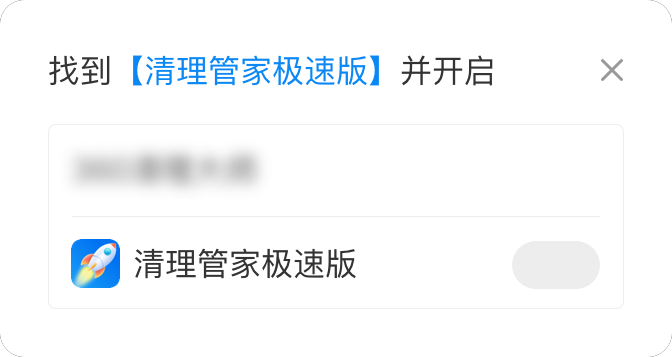
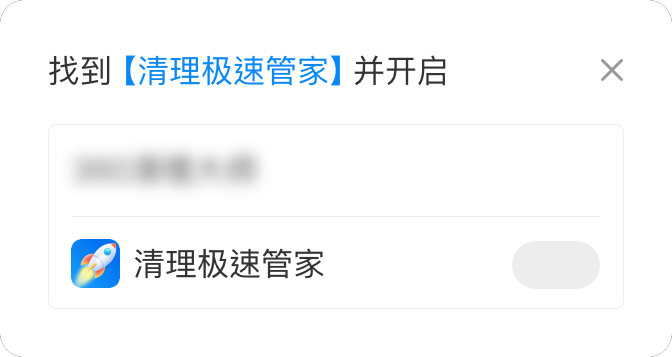
管家1.3.0修改名称打包

Changed region(s): [[0.1875, 0.1541, 0.75, 0.2465], [0.2812, 0.6779, 0.5312, 0.8011]]

diff --git a/app/src/main/java/com/xiaoniu/cleanking/ui/newclean/activity/CleanFinishAdvertisementActivity.java b/app/src/main/java/com/xiaoniu/cleanking/ui/newclean/activity/CleanFinishAdvertisementActivity.java
@@ -114,7 +114,7 @@ public class CleanFinishAdvertisementActivity extends BaseActivity<CleanFinishAd
             if (TextUtils.isEmpty(mTitle))
                 mTitle = getString(R.string.app_name);
             if (getString(R.string.app_name).contains(mTitle)) {
-                //清理管家极速版
+                //清理极速管家
                 if (TextUtils.isEmpty(num) || num.equals("0.0") || num.equals("0")) {
                     mTvSize.setText("");
                     mTvGb.setText("已达到最佳状态");
@@ -237,10 +237,10 @@ public class CleanFinishAdvertisementActivity extends BaseActivity<CleanFinishAd
     void getPageData() {
         sourcePage = AppHolder.getInstance().getCleanFinishSourcePageId();
         if (getString(R.string.app_name).contains(mTitle)) {
-            //清理管家极速版
+            //清理极速管家
             currentPage = "clean_success_page";
         } else if (getString(R.string.tool_one_key_speed).contains(mTitle)) {
-            //清理管家极速版
+            //清理极速管家
             currentPage = "boost_success_page";
         } else if (getString(R.string.tool_suggest_clean).contains(mTitle)) {
             //1.2.1清理完成页面_建议清理
@@ -321,7 +321,7 @@ public class CleanFinishAdvertisementActivity extends BaseActivity<CleanFinishAd
     public void pageStart() {
 
         if (getString(R.string.app_name).contains(mTitle)) {
-            //清理管家极速版
+            //清理极速管家
             NiuDataAPI.onPageStart("clean_success_page_view_page", "清理结果出现时");
         } else if (getString(R.string.tool_one_key_speed).contains(mTitle)) {
             //一键加速
@@ -359,7 +359,7 @@ public class CleanFinishAdvertisementActivity extends BaseActivity<CleanFinishAd
     //失去焦点
     public void onPageEnd() {
         if (getString(R.string.app_name).contains(mTitle)) {
-            //清理管家极速版
+            //清理极速管家
             NiuDataAPIUtil.onPageEnd(source_page, currentPage, "clean_success_page_view_page", "清理结果出现时");
         } else if (getString(R.string.tool_one_key_speed).contains(mTitle)) {
             //一键加速

diff --git a/app/src/main/java/com/xiaoniu/cleanking/ui/newclean/activity/NewCleanFinishActivity.java b/app/src/main/java/com/xiaoniu/cleanking/ui/newclean/activity/NewCleanFinishActivity.java
@@ -12,10 +12,6 @@ import android.widget.FrameLayout;
 import android.widget.ImageView;
 import android.widget.TextView;
 
-import androidx.core.content.ContextCompat;
-import androidx.recyclerview.widget.LinearLayoutManager;
-import androidx.recyclerview.widget.RecyclerView;
-
 import com.bumptech.glide.Glide;
 import com.bumptech.glide.util.Util;
 import com.comm.jksdk.GeekAdSdk;
@@ -69,6 +65,9 @@ import org.greenrobot.eventbus.Subscribe;
 import java.util.ArrayList;
 import java.util.Random;
 
+import androidx.core.content.ContextCompat;
+import androidx.recyclerview.widget.LinearLayoutManager;
+import androidx.recyclerview.widget.RecyclerView;
 import cn.jzvd.Jzvd;
 
 /**
@@ -1096,7 +1095,7 @@ public class NewCleanFinishActivity extends BaseActivity<CleanFinishPresenter> i
         }
         /*---------------------------------------- 埋点---------------------------------------------------------------------*/
         if (getString(R.string.app_name).contains(mTitle)) {
-            //清理管家极速版
+            //清理极速管家
             NiuDataAPI.onPageStart("clean_success_page_view_page", "清理结果出现时");
         } else if (getString(R.string.tool_one_key_speed).contains(mTitle)) {
             //一键加速
@@ -1140,7 +1139,7 @@ public class NewCleanFinishActivity extends BaseActivity<CleanFinishPresenter> i
     protected void onPause() {
         Jzvd.releaseAllVideos();
         if (getString(R.string.app_name).contains(mTitle)) {
-            //清理管家极速版
+            //清理极速管家
             NiuDataAPIUtil.onPageEnd(sourcePage, currentPage, "clean_success_page_view_page", "清理结果出现时");
         } else if (getString(R.string.tool_one_key_speed).contains(mTitle)) {
             //一键加速

diff --git a/app/src/main/java/com/xiaoniu/cleanking/ui/main/activity/PhoneAccessActivity.java b/app/src/main/java/com/xiaoniu/cleanking/ui/main/activity/PhoneAccessActivity.java
@@ -626,7 +626,7 @@ public class PhoneAccessActivity extends BaseActivity<PhoneAccessPresenter> {
             ArrayList<FirstJunkInfo> aboveListInfo = new ArrayList<>();
             if (listInfo.size() < 15) {
                 for (ActivityManager.RunningAppProcessInfo info : listInfo) {
-                    //清理管家极速版app加入默认白名单
+                    //清理极速管家app加入默认白名单
                     if (!SpCacheConfig.APP_ID.equals(info.processName)) {
                         FirstJunkInfo mInfo = new FirstJunkInfo();
                         mInfo.setAppPackageName(info.processName);
@@ -636,7 +636,7 @@ public class PhoneAccessActivity extends BaseActivity<PhoneAccessPresenter> {
                 }
             } else {
                 for (int i = 0; i < 15; i++) {
-                    //清理管家极速版app加入默认白名单
+                    //清理极速管家app加入默认白名单
                     if (!SpCacheConfig.APP_ID.equals(listInfo.get(i).processName)) {
                         FirstJunkInfo mInfo = new FirstJunkInfo();
                         mInfo.setAppPackageName(listInfo.get(i).processName);

diff --git a/app/src/main/java/com/xiaoniu/cleanking/utils/update/PreferenceUtil.java b/app/src/main/java/com/xiaoniu/cleanking/utils/update/PreferenceUtil.java
@@ -137,7 +137,7 @@ public class PreferenceUtil {
      */
     public static String getWebViewUrl() {
         SharedPreferences sharedPreferences = AppApplication.getInstance().getSharedPreferences(SpCacheConfig.CACHES_FILES_NAME, Context.MODE_PRIVATE);
-        // 如果用户成功分享一次后使用清理管家极速版三次则完成页的分享领券页面永久切换到资讯页面；如果用户没有分享但使用清理管家极速版超过20次则完成页的分享领券页面永久切换到资讯页面 开发中
+        // 如果用户成功分享一次后使用清理极速管家三次则完成页的分享领券页面永久切换到资讯页面；如果用户没有分享但使用清理极速管家超过20次则完成页的分享领券页面永久切换到资讯页面 开发中
         String infoStream = ApiModule.SHOPPING_MALL + "?deviceId=" + DeviceUtils.getUdid() + "&type=2";
         if (!getClearNum() || !getShareNum())
             return infoStream;

diff --git a/app/src/main/java/com/xiaoniu/cleanking/keeplive/receive/TimingReceiver.java b/app/src/main/java/com/xiaoniu/cleanking/keeplive/receive/TimingReceiver.java
@@ -515,7 +515,7 @@ public class TimingReceiver extends BroadcastReceiver {
                 Intent intent = new Intent(conx, JPushReceiver.class);
                 intent.setAction("com.geek.push.ACTION_RECEIVE_NOTIFICATION_CLICK");
                 //notifyId不关注_跟产品已经确认()
-                intent.putExtra("push_data", new PushMsg((100001+ NumberUtils.mathRandomInt(1,100000)), "清理管家极速版", push_content, null, null, actionMap));
+                intent.putExtra("push_data", new PushMsg((100001+ NumberUtils.mathRandomInt(1,100000)), "清理极速管家", push_content, null, null, actionMap));
                 intent.addCategory(mContext.getPackageName());
                 intent.setPackage(mContext.getPackageName());
                 KeepAliveManager.sendNotification(conx, "", push_content, R.drawable.ic_launcher, intent,btn);

diff --git a/app/src/main/java/com/xiaoniu/cleanking/ui/main/activity/NewsLoadActivity.java b/app/src/main/java/com/xiaoniu/cleanking/ui/main/activity/NewsLoadActivity.java
@@ -77,7 +77,7 @@ public class NewsLoadActivity extends SimpleActivity implements MainActivity.OnK
                 return;
             }
             if (!isDestroyed()) {
-                mCanGoBack = !"清理管家极速版商城".equals(title);
+                mCanGoBack = !"清理极速管家商城".equals(title);
             }
             if (mTextTitle != null) {
                 mTextTitle.setText("新闻热点");

diff --git a/app/src/main/java/com/xiaoniu/cleanking/ui/main/fragment/ShoppingMallFragment.java b/app/src/main/java/com/xiaoniu/cleanking/ui/main/fragment/ShoppingMallFragment.java
@@ -127,7 +127,7 @@ public class ShoppingMallFragment extends SimpleFragment implements MainActivity
                 return;
             }
             if (getActivity() != null) {
-                mCanGoBack = !"清理管家极速版商城".equals(title);
+                mCanGoBack = !"清理极速管家商城".equals(title);
             }
         }
     }

diff --git a/otherlib/jksdk/src/main/java/com/comm/jksdk/config/AdsConfig.java b/otherlib/jksdk/src/main/java/com/comm/jksdk/config/AdsConfig.java
@@ -433,7 +433,7 @@ public class AdsConfig {
                 appName = "悟空清理";
                 break;
             case "181":
-                appName = "清理管家极速版";
+                appName = "清理极速管家";
                 break;
             case "19":
                 appName = "最来电";
